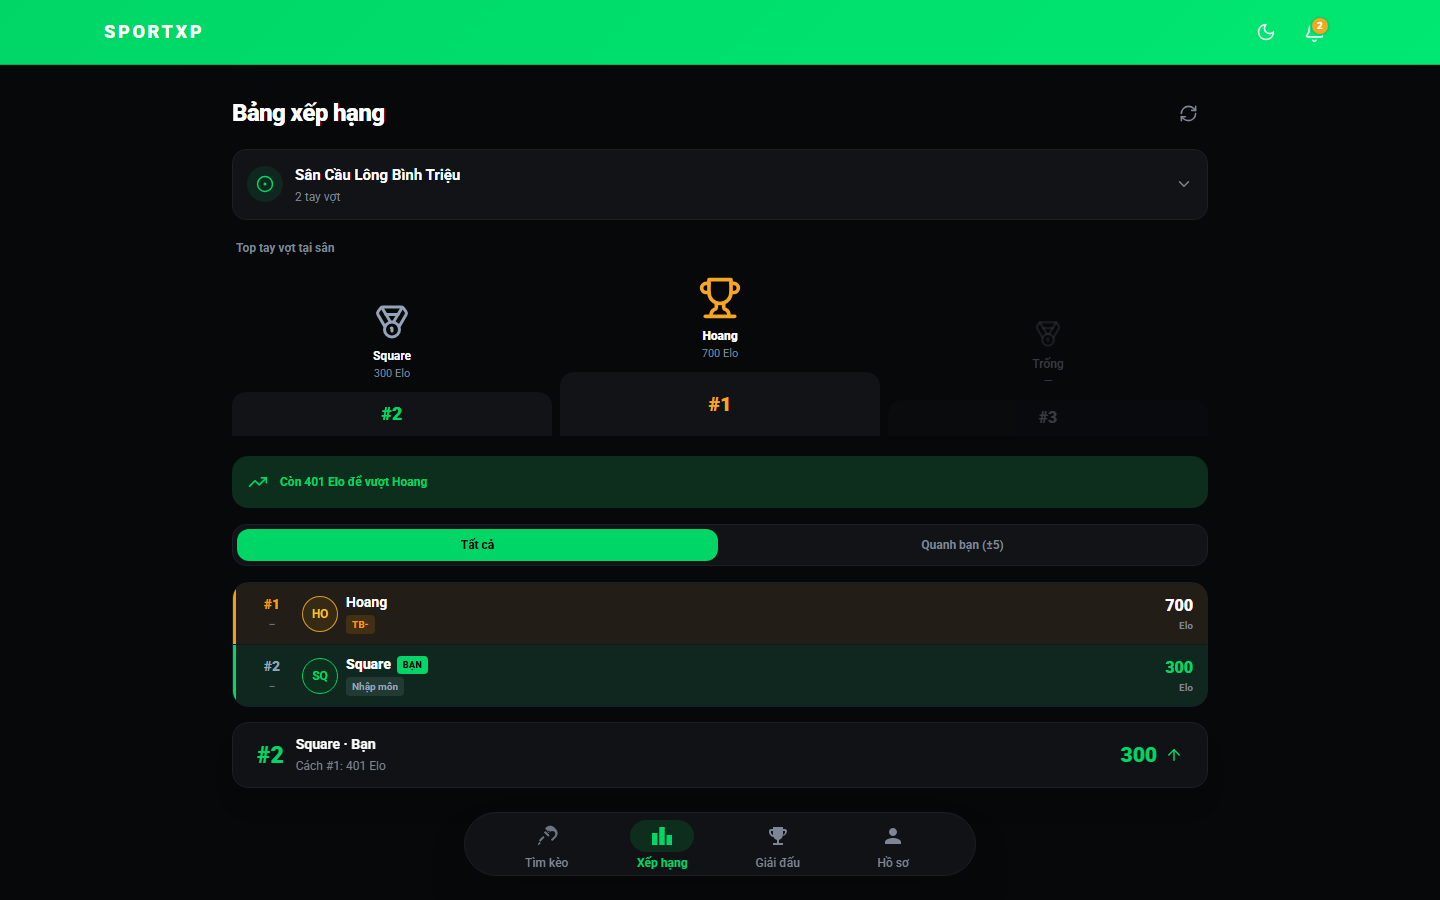
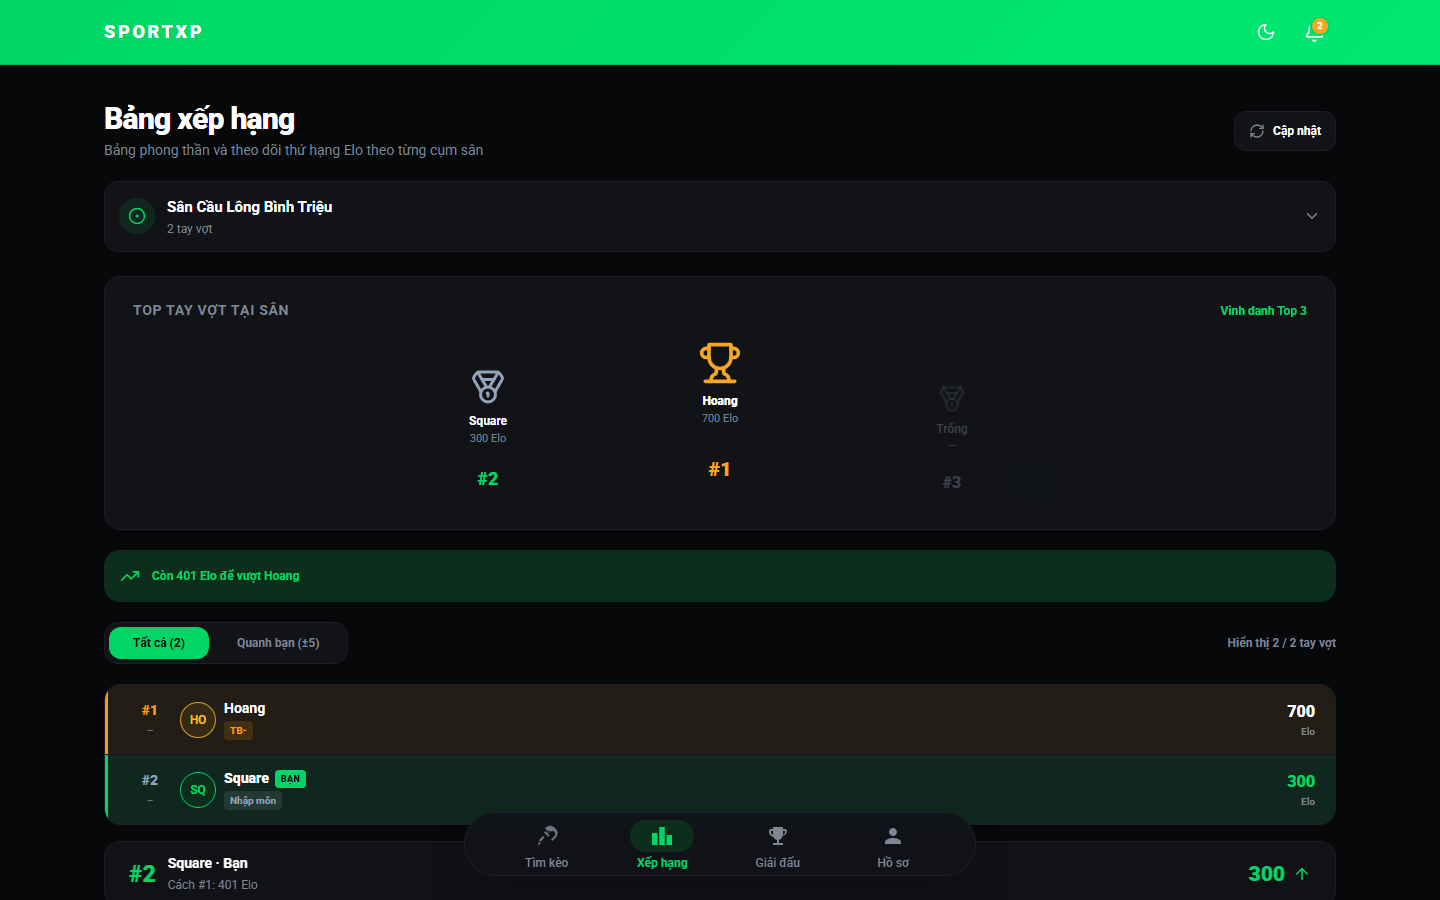
feat(rankings): expand leaderboard container width to max-w-7xl with synchronized desktop layout

diff --git a/frontend/src/features/rankings/LeaderboardPage.tsx b/frontend/src/features/rankings/LeaderboardPage.tsx
@@ -158,20 +158,26 @@ export const LeaderboardPage: React.FC = () => {
       {/* Main Scroll Content */}
       <div
         ref={scrollContainerRef}
-        className="flex-1 overflow-y-auto px-4 md:px-6 py-3 md:py-6 pb-24 max-w-[720px] md:max-w-3xl lg:max-w-4xl xl:max-w-5xl w-full mx-auto flex flex-col gap-4"
+        className="flex-1 overflow-y-auto px-4 md:px-6 py-3 md:py-8 pb-28 max-w-content md:max-w-4xl lg:max-w-6xl xl:max-w-7xl w-full mx-auto flex flex-col gap-4 md:gap-5"
       >
         {/* Top Header */}
         <div className="flex items-center justify-between pt-1">
-          <h1 className="text-2xl font-extrabold tracking-tight text-app-text">
-            Bảng xếp hạng
-          </h1>
+          <div>
+            <h1 className="text-2xl md:text-3xl font-black tracking-tight text-app-text">
+              Bảng xếp hạng
+            </h1>
+            <p className="text-xs md:text-sm text-app-muted mt-1 hidden sm:block">
+              Bảng phong thần và theo dõi thứ hạng Elo theo từng cụm sân
+            </p>
+          </div>
           <button
             type="button"
             onClick={loadCourtsAndData}
             title="Cập nhật bảng xếp hạng"
-            className="w-10 h-10 rounded-full flex items-center justify-center text-app-muted hover:text-app-text hover:bg-app-surface/60 active:scale-95 transition-all"
+            className="h-9 md:h-10 px-3 md:px-3.5 rounded-xl border border-app-border bg-app-surface text-app-text hover:border-app-primary/40 font-bold text-xs flex items-center gap-2 shadow-xs transition-all active:scale-95"
           >
-            <RefreshCw size={19} className={loading ? 'animate-spin text-app-primary' : ''} />
+            <RefreshCw size={16} className={loading ? 'animate-spin text-app-primary' : 'text-app-muted'} />
+            <span className="hidden sm:inline">Cập nhật</span>
           </button>
         </div>
 
@@ -219,12 +225,17 @@ export const LeaderboardPage: React.FC = () => {
           <>
             {/* Top 3 Podium */}
             {hasPodium && (
-              <div className="flex flex-col gap-3 mt-1">
-                <span className="text-xs font-bold text-app-muted px-1">
-                  Top tay vợt tại sân
-                </span>
+              <div className="flex flex-col gap-3 mt-1 bg-app-surface border border-app-border rounded-2xl p-3.5 md:p-6 shadow-xs">
+                <div className="flex items-center justify-between px-1">
+                  <span className="text-xs md:text-sm font-bold text-app-muted uppercase tracking-wider">
+                    Top tay vợt tại sân
+                  </span>
+                  <span className="text-xs text-app-primary font-bold hidden sm:inline">
+                    Vinh danh Top 3
+                  </span>
+                </div>
 
-                <div className="grid grid-cols-3 items-end gap-2 pt-2 pb-1">
+                <div className="grid grid-cols-3 items-end gap-2 md:gap-6 pt-2 pb-1 max-w-2xl mx-auto w-full">
                   {/* Rank #2 (Left) */}
                   {allPlayers[1] ? (
                     <div
@@ -327,29 +338,34 @@ export const LeaderboardPage: React.FC = () => {
             )}
 
             {/* Segmented Button View Mode */}
-            <div className="w-full p-1 bg-app-surface rounded-[14px] border border-app-border grid grid-cols-2 gap-1 shadow-xs">
-              <button
-                type="button"
-                onClick={() => setViewMode('all')}
-                className={`py-2 rounded-xl text-xs font-bold transition-all text-center ${
-                  viewMode === 'all'
-                    ? 'bg-app-primary text-app-on-primary shadow-xs'
-                    : 'text-app-muted hover:text-app-text'
-                }`}
-              >
-                Tất cả
-              </button>
-              <button
-                type="button"
-                onClick={() => setViewMode('nearMe')}
-                className={`py-2 rounded-xl text-xs font-bold transition-all text-center ${
-                  viewMode === 'nearMe'
-                    ? 'bg-app-primary text-app-on-primary shadow-xs'
-                    : 'text-app-muted hover:text-app-text'
-                }`}
-              >
-                Quanh bạn (±5)
-              </button>
+            <div className="w-full flex items-center justify-between gap-3">
+              <div className="w-full sm:w-auto p-1 bg-app-surface rounded-[14px] border border-app-border grid grid-cols-2 sm:flex gap-1 shadow-xs">
+                <button
+                  type="button"
+                  onClick={() => setViewMode('all')}
+                  className={`px-4 sm:px-6 py-2 rounded-xl text-xs font-bold transition-all text-center ${
+                    viewMode === 'all'
+                      ? 'bg-app-primary text-app-on-primary shadow-xs'
+                      : 'text-app-muted hover:text-app-text'
+                  }`}
+                >
+                  Tất cả ({allPlayers.length})
+                </button>
+                <button
+                  type="button"
+                  onClick={() => setViewMode('nearMe')}
+                  className={`px-4 sm:px-6 py-2 rounded-xl text-xs font-bold transition-all text-center ${
+                    viewMode === 'nearMe'
+                      ? 'bg-app-primary text-app-on-primary shadow-xs'
+                      : 'text-app-muted hover:text-app-text'
+                  }`}
+                >
+                  Quanh bạn (±5)
+                </button>
+              </div>
+              <span className="text-xs text-app-muted font-semibold hidden sm:inline">
+                Hiển thị {listPlayers.length} / {allPlayers.length} tay vợt
+              </span>
             </div>
 
             {/* Ranked List Section */}
@@ -390,7 +406,7 @@ export const LeaderboardPage: React.FC = () => {
       {/* Fixed Sticky MyStandingBar at Bottom */}
       {userCourtRank && currentUserProfile && (
         <div className="sticky bottom-0 md:bottom-28 z-30 w-full pointer-events-none">
-          <div className="max-w-[720px] md:max-w-3xl lg:max-w-4xl xl:max-w-5xl w-full mx-auto px-0 md:px-6 pointer-events-auto">
+          <div className="max-w-content md:max-w-4xl lg:max-w-6xl xl:max-w-7xl w-full mx-auto px-0 md:px-6 pointer-events-auto">
             <MyFixedStandingBar
               userProfile={currentUserProfile}
               rankSummary={userCourtRank}

diff --git a/frontend/src/features/rankings/presentation/widgets/CourtPickerSheet.tsx b/frontend/src/features/rankings/presentation/widgets/CourtPickerSheet.tsx
@@ -27,11 +27,11 @@ export const CourtPickerSheet: React.FC<CourtPickerSheetProps> = ({
   }, [onClose]);
   return (
     <div
-      className="fixed inset-0 z-50 flex items-end justify-center bg-black/60 backdrop-blur-xs transition-opacity animate-in fade-in"
+      className="fixed inset-0 z-50 flex items-end sm:items-center justify-center bg-black/60 backdrop-blur-xs transition-opacity animate-in fade-in p-0 sm:p-4"
       onClick={onClose}
     >
       <div
-        className="w-full max-w-[720px] bg-app-surface rounded-t-[20px] border-t border-app-border p-4 pb-8 flex flex-col gap-3 shadow-xl max-h-[85vh] overflow-y-auto"
+        className="w-full max-w-[560px] bg-app-surface rounded-t-[20px] sm:rounded-2xl border border-app-border p-4 pb-8 sm:p-6 flex flex-col gap-3 shadow-xl max-h-[85vh] overflow-y-auto"
         onClick={(e) => e.stopPropagation()}
       >
         {/* Handle Bar */}

diff --git a/frontend/src/features/rankings/presentation/widgets/PlayerDetailModal.tsx b/frontend/src/features/rankings/presentation/widgets/PlayerDetailModal.tsx
@@ -25,11 +25,11 @@ export const PlayerDetailModal: React.FC<PlayerDetailModalProps> = ({
 
   return (
     <div
-      className="fixed inset-0 z-50 flex items-end justify-center bg-black/60 backdrop-blur-xs transition-opacity animate-in fade-in"
+      className="fixed inset-0 z-50 flex items-end sm:items-center justify-center bg-black/60 backdrop-blur-xs transition-opacity animate-in fade-in p-0 sm:p-4"
       onClick={onClose}
     >
       <div
-        className="w-full max-w-[720px] bg-app-surface rounded-t-[20px] border-t border-app-border p-6 pb-8 flex flex-col gap-5 shadow-2xl max-h-[90vh] overflow-y-auto"
+        className="w-full max-w-[560px] bg-app-surface rounded-t-[20px] sm:rounded-2xl border border-app-border p-6 pb-8 flex flex-col gap-5 shadow-2xl max-h-[90vh] overflow-y-auto"
         onClick={(e) => e.stopPropagation()}
       >
         {/* Handle bar */}

diff --git a/frontend/src/features/rankings/presentation/widgets/DuolingoRankRow.tsx b/frontend/src/features/rankings/presentation/widgets/DuolingoRankRow.tsx
@@ -86,7 +86,7 @@ export const DuolingoRankRow: React.FC<DuolingoRankRowProps> = ({
   return (
     <div
       onClick={onTap}
-      className={`w-full px-3.5 py-2.5 flex items-center cursor-pointer transition-colors ${getRowContainerStyle()} ${
+      className={`w-full px-3.5 md:px-5 py-2.5 md:py-3.5 flex items-center cursor-pointer transition-colors ${getRowContainerStyle()} ${
         showDivider ? 'border-b border-app-border/40' : ''
       }`}
     >
